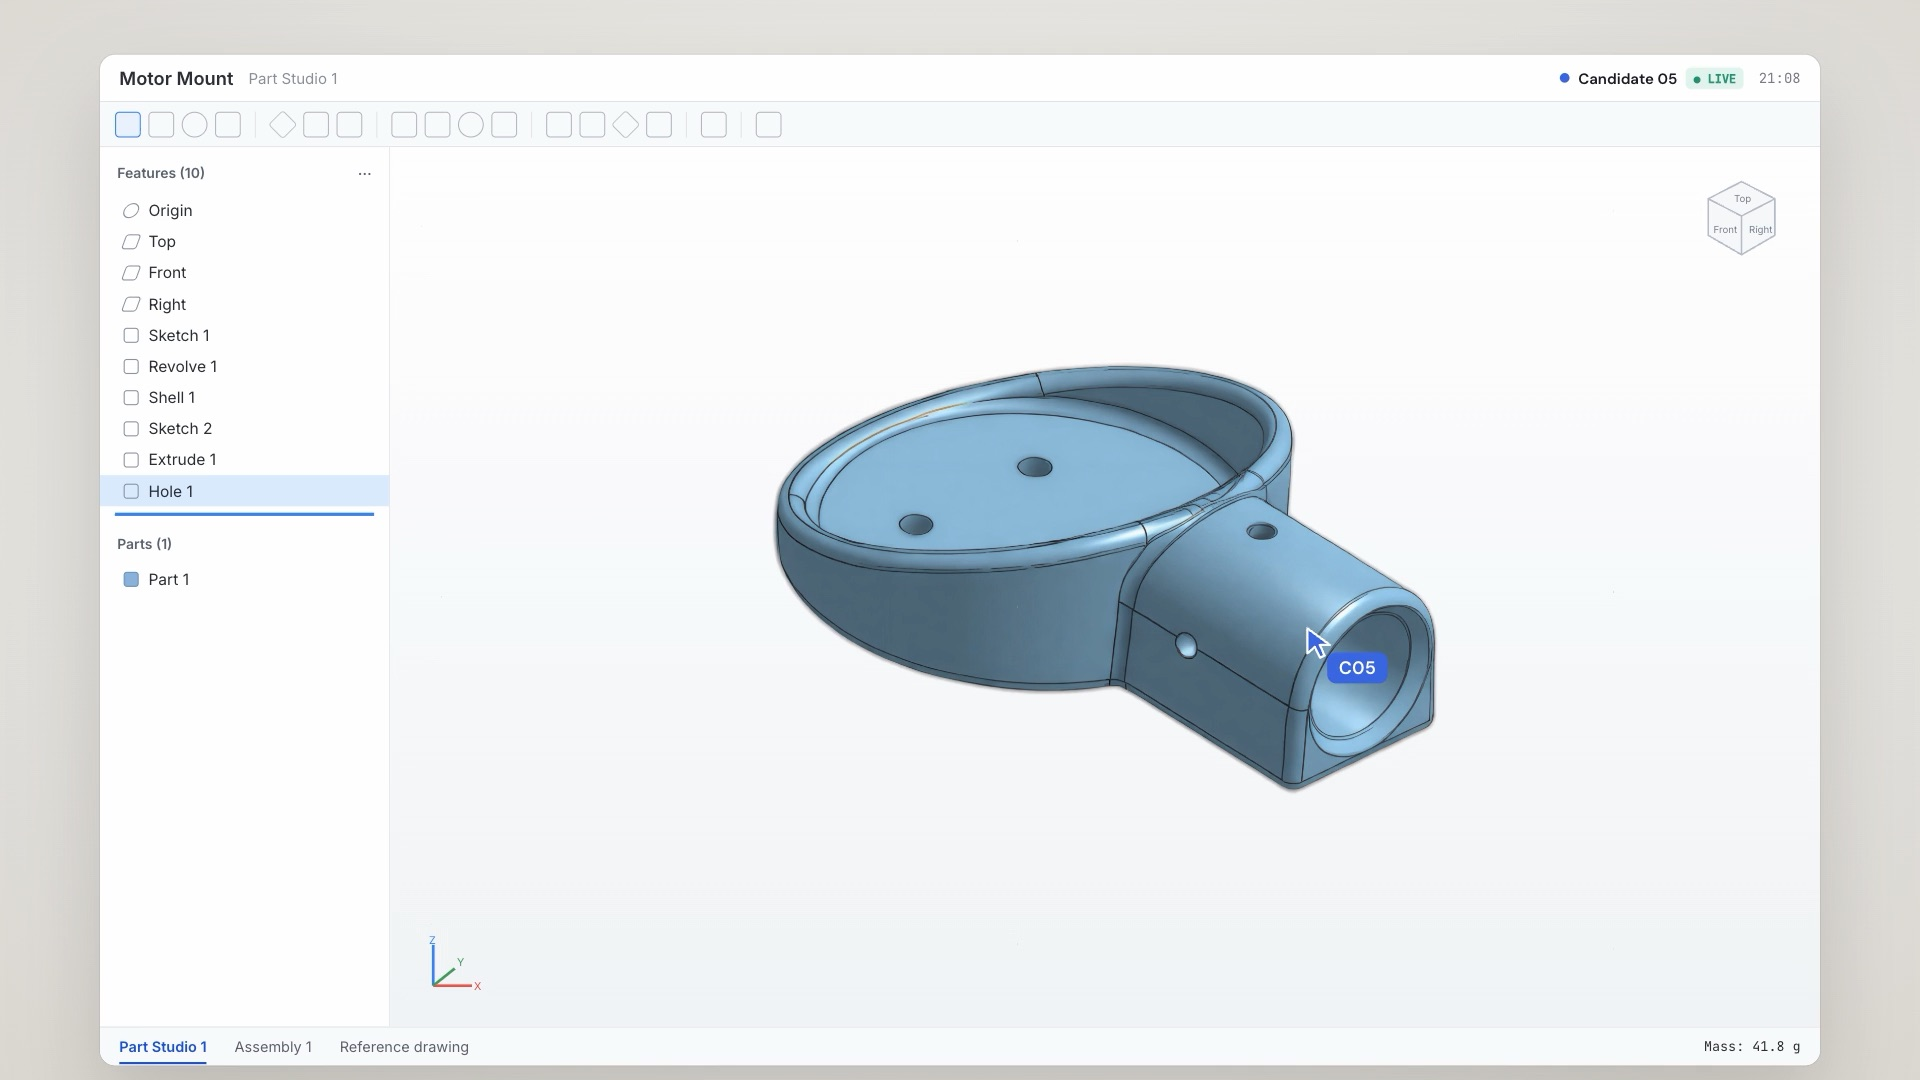
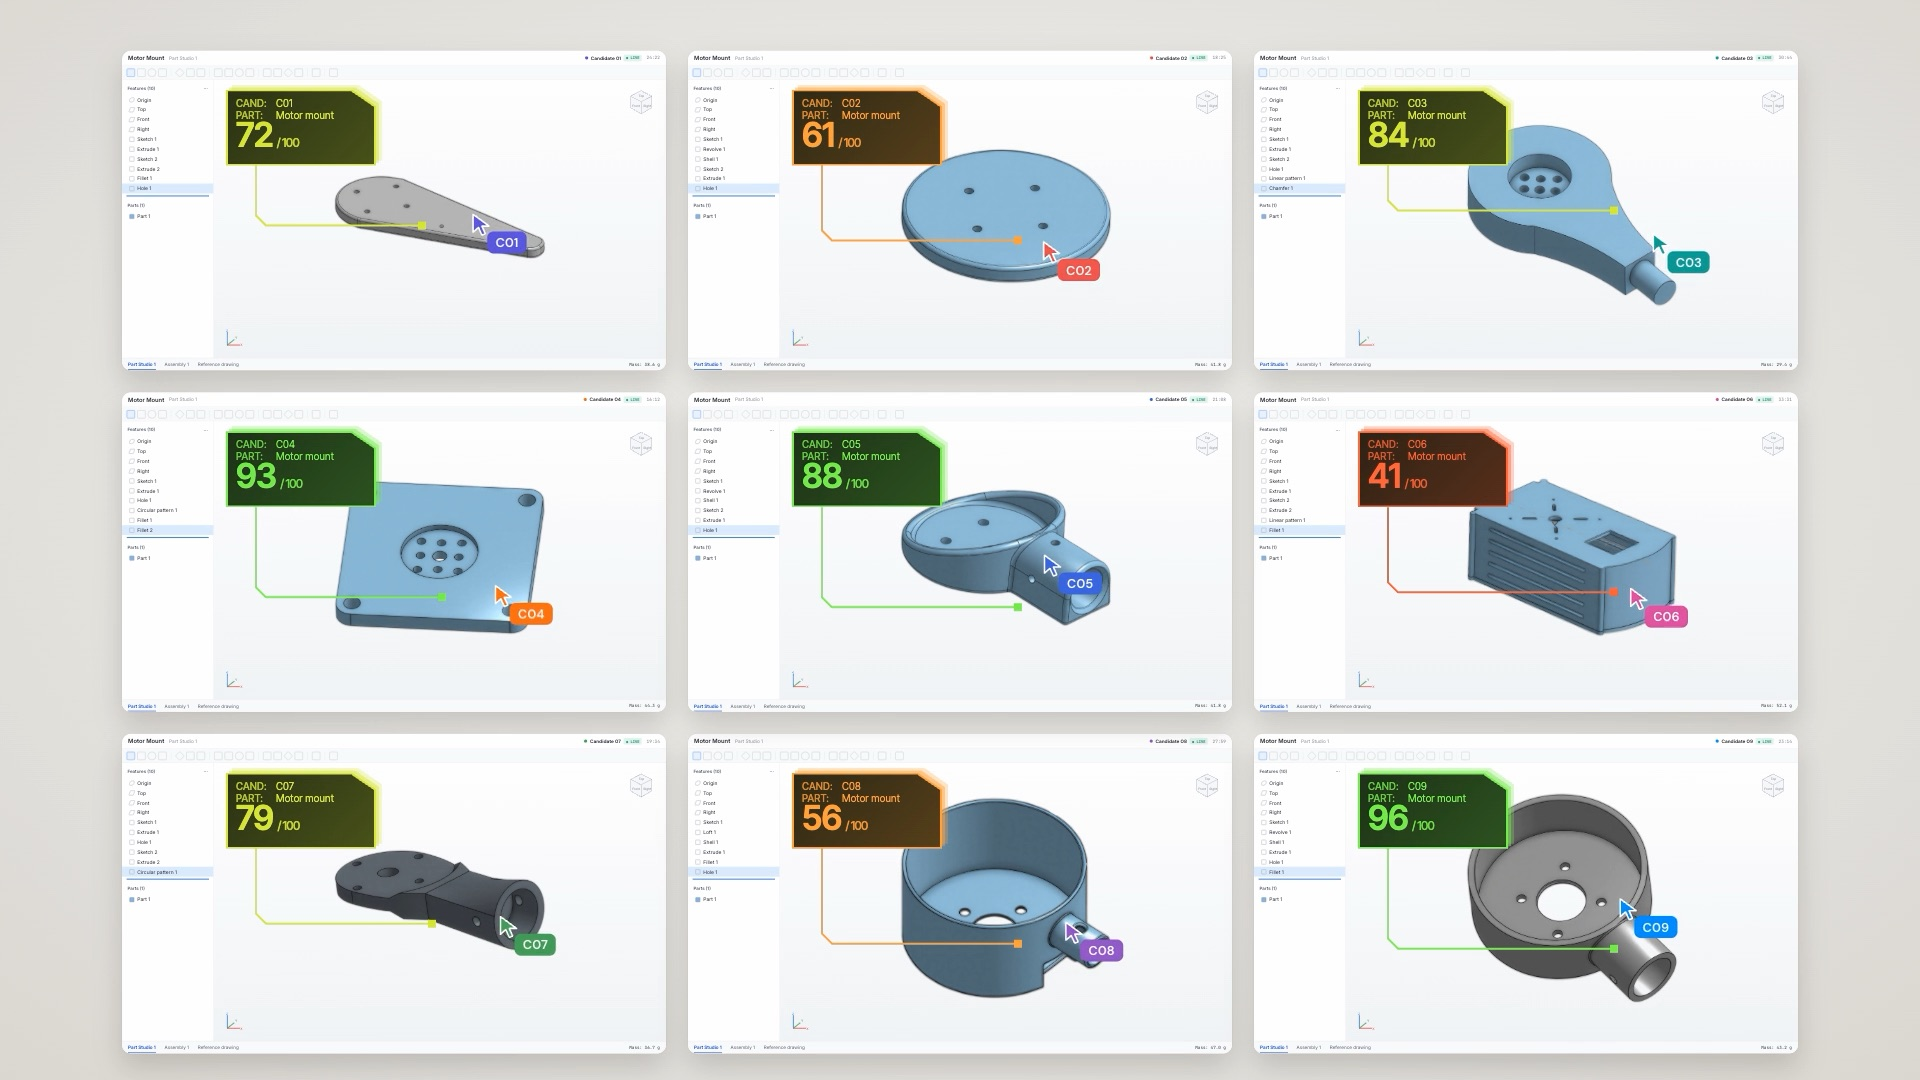
Made updates to the Colare page

diff --git a/portfolio-main/portfolio/colare.html b/portfolio-main/portfolio/colare.html
@@ -3,7 +3,7 @@
 <head>
   <meta charset="UTF-8" />
   <meta name="viewport" content="width=device-width, initial-scale=1" />
-  <title>Colare Work - Channing Chen</title>
+  <title>Work at Colare - Channing Chen</title>
   <meta name="description" content="Work at Colare." />
 
   <link rel="icon" type="image/png" sizes="192x192" href="/favicon.png">
@@ -56,11 +56,11 @@
     <p class="project-back reveal" style="--i:0"><a href="/portfolio.html" class="back-link">&larr; Portfolio</a></p>
 
     <article class="project-entry project-entry--page" id="colare">
-      <h1 class="project-title reveal" style="--i:1">Colare Work</h1>
+      <h1 class="project-title reveal" style="--i:1">Work at Colare</h1>
       <p class="project-meta reveal" style="--i:2"><a href="https://colare.com" target="_blank" rel="noopener noreferrer">colare.com</a> &middot; 2026 - Present</p>
 
       <figure class="project-figure reveal" style="--i:3">
-        <video src="/images/colare.mp4" poster="/images/colare-poster.jpg" muted loop playsinline preload="metadata" aria-label="Colare: a candidate modelling a motor mount in a live CAD session" data-hover-play></video>
+        <video src="/images/colare.mp4" poster="/images/colare-poster.jpg" muted playsinline preload="metadata" aria-label="Colare: candidates model a motor mount in live CAD sessions, then each is scored out of 100" data-hover-play></video>
       </figure>
     </article>
 

diff --git a/portfolio-main/hover-video.js b/portfolio-main/hover-video.js
@@ -1,13 +1,21 @@
-// Videos marked data-hover-play stay on their poster frame and play only while
-// the pointer is over them (or over the tile that contains them).
+// Videos marked data-hover-play rest on their final frame (the poster). Hovering
+// plays them from the start; they stop on the last frame, and leaving jumps back
+// to it.
 (function () {
   document.querySelectorAll('video[data-hover-play]').forEach(function (video) {
     var target = video.closest('a, figure') || video;
-    function play() { var p = video.play(); if (p && p.catch) p.catch(function () {}); }
-    function stop() { video.pause(); video.currentTime = 0; }
+    function play() {
+      video.currentTime = 0;
+      var p = video.play();
+      if (p && p.catch) p.catch(function () {});
+    }
+    function rest() {
+      video.pause();
+      if (video.duration) video.currentTime = Math.max(0, video.duration - 0.05);
+    }
     target.addEventListener('mouseenter', play);
-    target.addEventListener('mouseleave', stop);
+    target.addEventListener('mouseleave', rest);
     target.addEventListener('focus', play);
-    target.addEventListener('blur', stop);
+    target.addEventListener('blur', rest);
   });
 })();

diff --git a/portfolio-main/portfolio.html b/portfolio-main/portfolio.html
@@ -69,8 +69,8 @@
     <section class="work-section">
       <div class="project-grid">
         <a class="project-tile reveal" style="--i:1" href="/portfolio/colare.html">
-          <video src="/images/colare.mp4" poster="/images/colare-poster.jpg" muted loop playsinline preload="metadata" aria-hidden="true" data-hover-play></video>
-          <span class="project-tile-title">Colare Work</span>
+          <video src="/images/colare.mp4" poster="/images/colare-poster.jpg" muted playsinline preload="metadata" aria-hidden="true" data-hover-play></video>
+          <span class="project-tile-title">Work at Colare</span>
           <span class="project-tile-year">2026 - Present</span>
         </a>
         <a class="project-tile reveal" style="--i:1" href="/portfolio/profilometry.html">

diff --git a/README.md b/README.md
@@ -24,7 +24,7 @@ To restore it, move it back into `portfolio-main/` and re-add the `Resume` link 
 - `theme.js` + the small inline script in each page's `<head>` — the light/dark switch in the top right. The inline script applies the saved choice (or the system setting) before the page draws; `theme.js` handles clicks and saves the choice in `localStorage`. New pages need both, plus the `.theme-toggle` button markup (copy from any page).
 - `images/paper.jpg`, `images/paper-ink.jpg` — grained-paper background, applied in `styles.css` (pre-rendered from the [Paper Shaders](https://github.com/paper-design/shaders) paper texture). The page colour underneath comes from the `--paper-*` variables.
 - `images/` — project photography used on the Portfolio page.
-- `hover-video.js` — videos marked `data-hover-play` (e.g. the Colare tile) show their poster frame and play only while hovered. Give each one a `poster` still and `muted loop playsinline`.
+- `hover-video.js` — videos marked `data-hover-play` (e.g. the Colare tile) rest on their final frame and play from the start while hovered. Give each one a `poster` (its last frame) and `muted playsinline`.
 - Fade-in — on every page load, elements with class `reveal` and `style="--i:N"` fade in one after another (100 ms apart); the top bar stays put. Give new pages' content blocks the same class and numbering.
 - `music.js` + the `.music` block at the top of each page — the song player in the top left. It links to the track on Spotify and plays Spotify's 30-second preview (`data-preview`). To change the song, edit the link, title, artist and `data-preview` URL in each page.
 - `fonts/inter-latin.woff2` — Inter, self-hosted and preloaded on every page so text never draws in a fallback font first.
